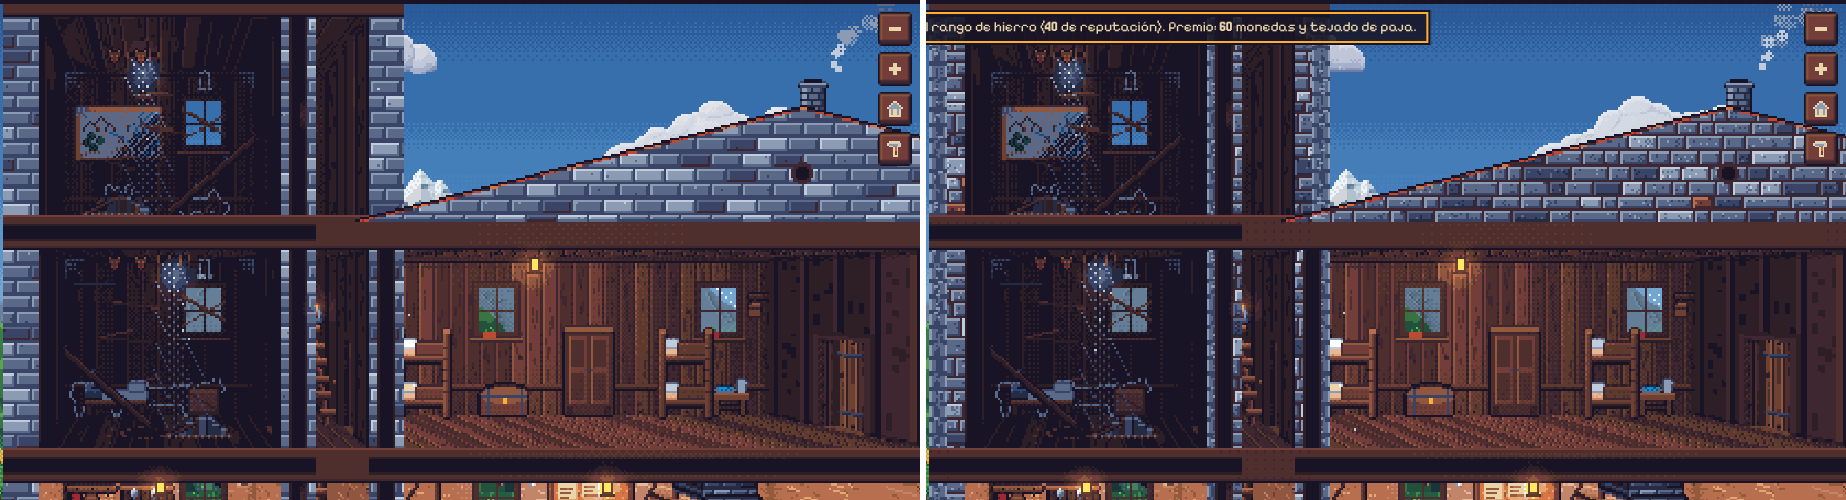
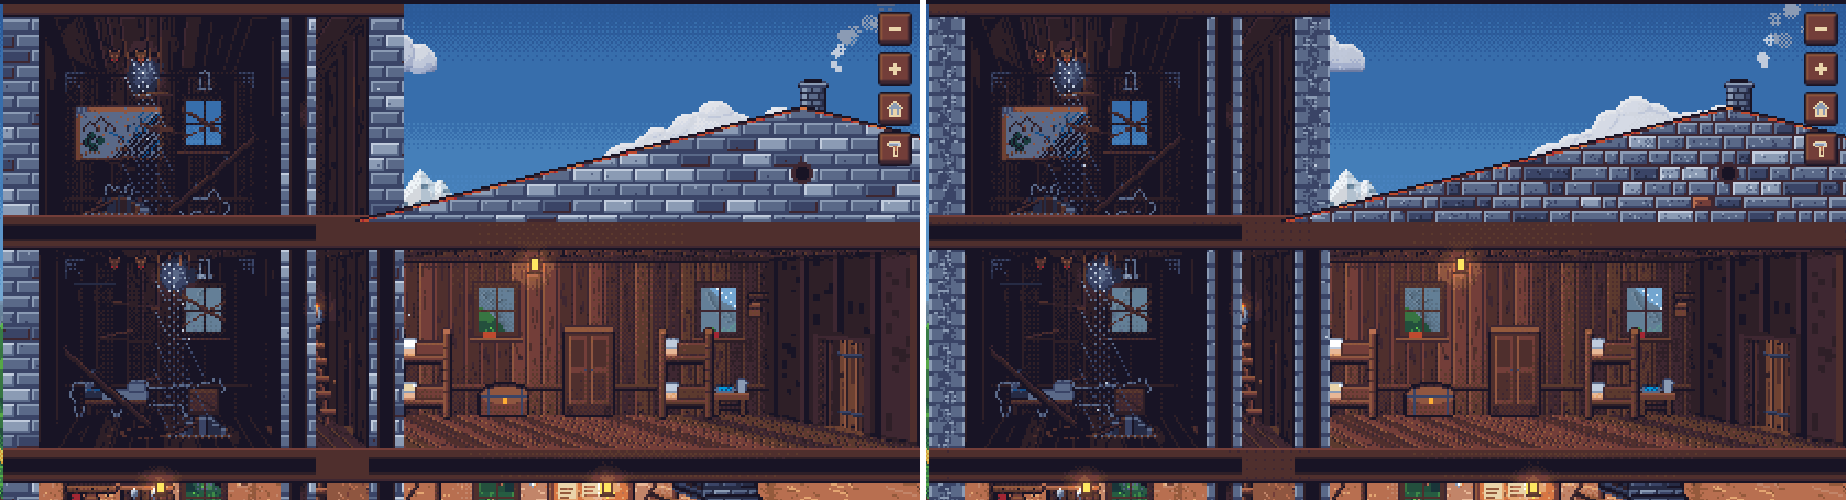
Paredes en corte: todo el grueso del muro, sin el dibujo de frente por dentro
El corte iba solo de la cara de fuera a la línea de la sala (WALL); por dentro, hasta el
hueco (PARTITION / 2), seguía el dibujo de la fachada. Ahora va de una cara a la otra, y
los forros y las hojas de sillar se ajustan a ese grueso.

Claude-Session: https://claude.ai/code/session_011Wau2CUcks799q681YrKG8

diff --git a/src/world/rooms/muros.ts b/src/world/rooms/muros.ts
@@ -329,7 +329,7 @@ function endGrain(b: PixelBuffer, x: number, y: number, w: number, h: number) {
 
 /** Tablas en corte: forro de fuera, cámara oscura con los travesaños por la testa y forro de dentro. */
 function boardSection(b: PixelBuffer, y: number, w: number, h: number, col: (i: number) => number) {
-  const skin = 2;
+  const skin = Math.max(2, Math.round(w / 6));
   for (let yy = y; yy < y + h; yy++)
     for (let i = 0; i < w; i++) {
       const xx = col(i);
@@ -361,8 +361,9 @@ function daubSection(
   for (let yy = y; yy < y + h; yy++)
     for (let i = 0; i < w; i++) {
       const xx = col(i);
+      // El revoco: más grueso por fuera que por dentro.
       if (i === 0 || i === w - 1) b.set(xx, yy, P.sand);
-      else if (i === 1 || i === w - 2) b.set(xx, yy, P.skinS);
+      else if (i === 1 || i === w - 2 || (w > 10 && i === 2)) b.set(xx, yy, P.skinS);
       else {
         // El barro con paja.
         const n = hash(xx, yy, 6);
@@ -371,7 +372,7 @@ function daubSection(
     }
   // El zarzo: las varas, cortadas, en zigzag de un lado al otro.
   for (let k = 0, yy = y + 3; yy < y + h - 2; k++, yy += 5) {
-    const i = 2 + (k % 2 ? w - 6 : 0) + (k % 4 === 1 ? 1 : 0);
+    const i = 3 + (k % 2 ? w - 8 : 0) + (k % 4 === 1 ? 1 : 0);
     const xx = Math.min(col(i), col(i + 1));
     b.rect(xx, yy, 2, 2, P.bark);
     b.set(xx, yy, P.oak);
@@ -410,7 +411,7 @@ function rubbleSection(
   // Las hojas de sillar, por hiladas de 7: una más honda y otra menos.
   for (const side of [0, 1])
     for (let k = 0, yy = y; yy < y + h; k++, yy += 7) {
-      const deep = (k + side) % 2 ? 3 : 2;
+      const deep = Math.round(w * ((k + side) % 2 ? 0.36 : 0.22));
       const yh = Math.min(6, y + h - yy - 1);
       if (yh <= 0) continue;
       for (let i = 0; i < deep; i++) {

diff --git a/src/world/rooms/textures.ts b/src/world/rooms/textures.ts
@@ -483,10 +483,12 @@ export function facade(L: RoomsLayout, look: FacadeLook = {}, crest?: Crest): Fa
     const w = rect.w + 2 * WALL;
     const h = rect.h + 2 * SLAB;
     copyRect(buf, floor >= 0 ? wood : stone, x, y, w, h);
-    // El grueso del muro a los dos lados, en corte (lo de dentro del muro, no su cara).
+    // El grueso del muro a los dos lados, en corte (lo de dentro del muro, no su cara): de fuera
+    // de la sala hasta donde empieza su hueco (`interior`), WALL + PARTITION / 2.
     const kind = floor >= 0 ? (look.walls ?? 'tablas') : 'sotano';
-    wallSection(buf, x, y + SLAB, WALL, h - 2 * SLAB, true, kind);
-    wallSection(buf, x + w - WALL, y + SLAB, WALL, h - 2 * SLAB, false, kind);
+    const thick = WALL + PARTITION / 2;
+    wallSection(buf, x, y + SLAB, thick, h - 2 * SLAB, true, kind);
+    wallSection(buf, x + w - thick, y + SLAB, thick, h - 2 * SLAB, false, kind);
     if (floor >= 0) {
       beam(buf, x, y, w, SLAB, WOOD_DARK);
       beam(buf, x, y + h - SLAB, w, SLAB, WOOD_DARK);

diff --git a/docs/plan-arte.md b/docs/plan-arte.md
@@ -95,7 +95,9 @@ npm run build`.
     distancias distintas y riostras variadas; sillería en hiladas de alto distinto); en corte
     (el grueso alrededor de cada sala), `wallSection` enseña lo de dentro del muro (forros y
     travesaños por la testa; revoco, barro con zarzo y carreras; dos hojas de sillar con
-    mampuesto; los sótanos, igual en piedra oscura);
+    mampuesto; los sótanos, igual en piedra oscura). El corte ocupa todo el grueso, de fuera de
+    la sala hasta su hueco (`WALL + PARTITION / 2`): antes, por dentro asomaba el dibujo de
+    frente (el usuario);
   - iconos (`ui/icons.tsx`): las piezas del jardín y el claustro en Obras, los suelos y bordes
     (antes, colores planos), el farol, las pestañas de Adornos (con cinco, el icono va encima de
     la palabra para que quepa) y del Arcón, y los rótulos; tejados y paredes con una muestra de
